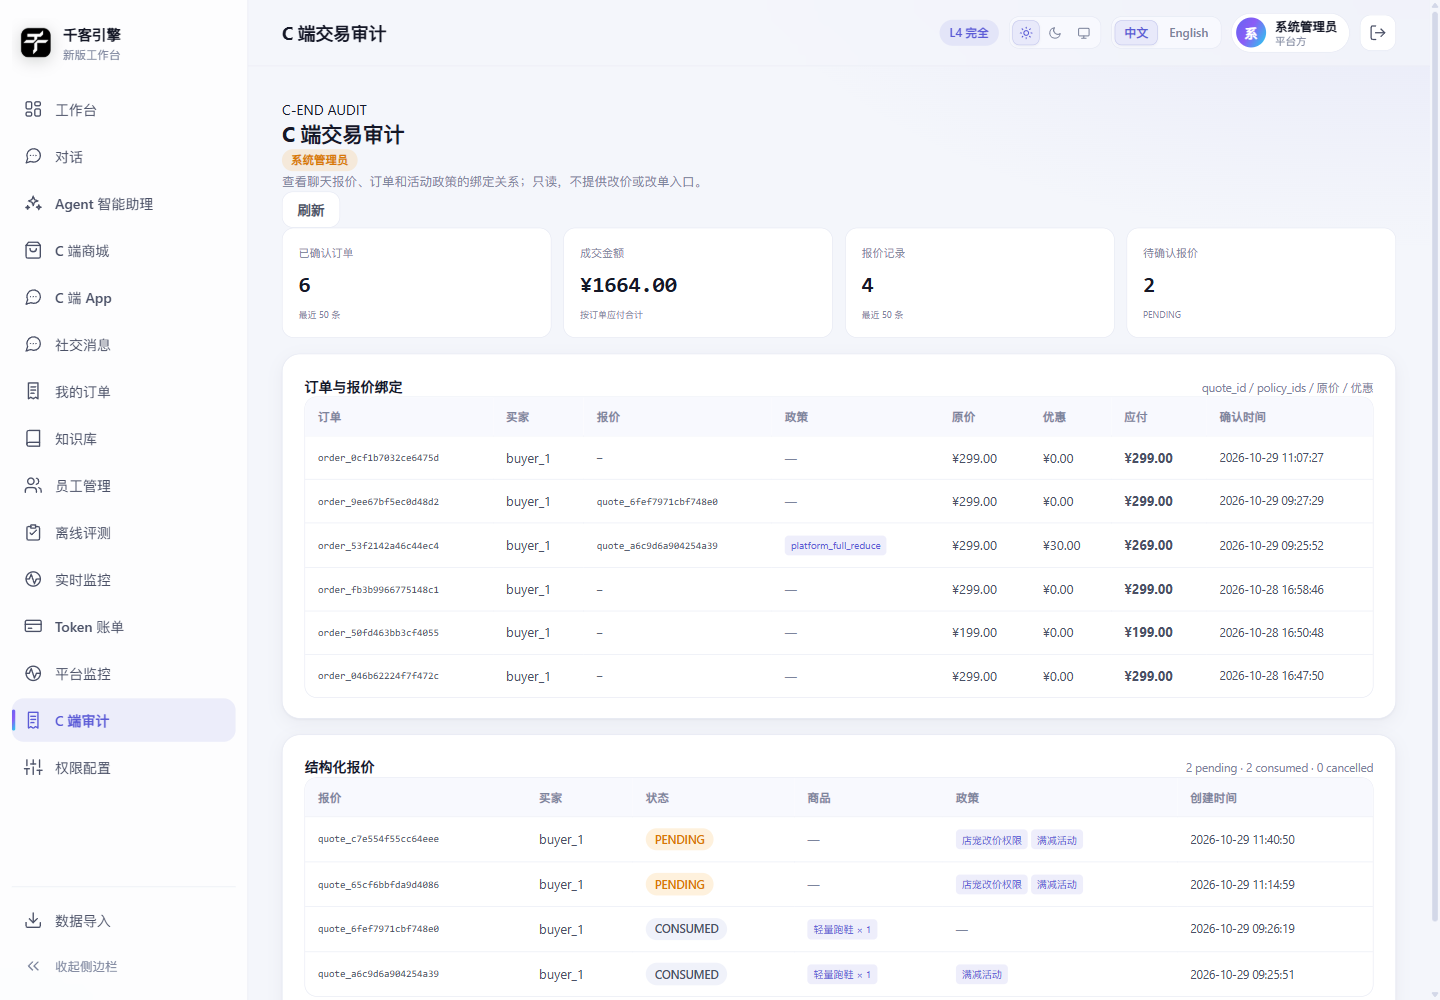
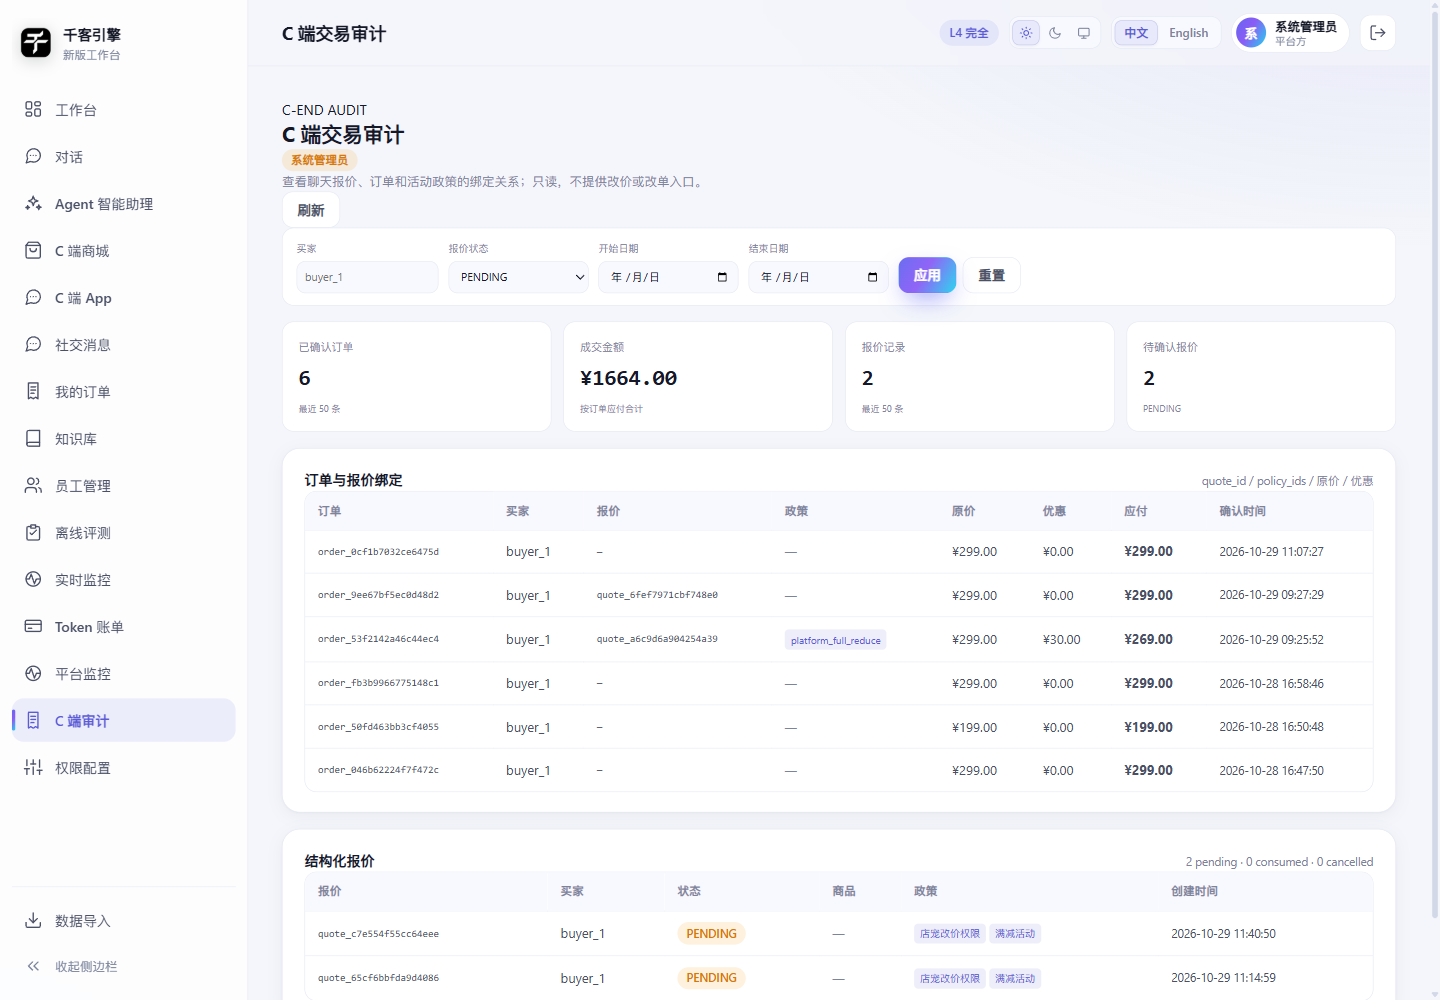
feat(admin): filter C-end audit by buyer status and date
审计接口与页面支持 buyer_id、报价状态、自然日范围筛选；统计和列表随筛选联动。

diff --git a/web/src/views/CAdminAudit.vue b/web/src/views/CAdminAudit.vue
@@ -8,6 +8,10 @@ const quotes = ref([]);
 const summary = ref({});
 const loading = ref(true);
 const error = ref("");
+const buyerId = ref("");
+const quoteStatus = ref("");
+const dateFrom = ref("");
+const dateTo = ref("");
 
 function money(value) {
   return `¥${Number(value || 0).toFixed(2)}`;
@@ -23,13 +27,18 @@ function productLabel(product) {
 }
 
 const pendingQuotes = computed(() => summary.value.pending_quotes || 0);
-const quoteStatus = computed(() => summary.value.quote_status || {});
+const quoteStatusCounts = computed(() => summary.value.quote_status || {});
 
 async function load() {
   loading.value = true;
   error.value = "";
   try {
-    const data = await getJson("/api/c/admin/audit?limit=50");
+    const params = new URLSearchParams({ limit: "50" });
+    if (buyerId.value.trim()) params.set("buyer_id", buyerId.value.trim());
+    if (quoteStatus.value) params.set("status", quoteStatus.value);
+    if (dateFrom.value) params.set("date_from", dateFrom.value);
+    if (dateTo.value) params.set("date_to", dateTo.value);
+    const data = await getJson(`/api/c/admin/audit?${params.toString()}`);
     orders.value = data?.orders || [];
     quotes.value = data?.quotes || [];
     summary.value = data?.summary || {};
@@ -39,6 +48,14 @@ async function load() {
   } finally {
     loading.value = false;
   }
+}
+
+function resetFilters() {
+  buyerId.value = "";
+  quoteStatus.value = "";
+  dateFrom.value = "";
+  dateTo.value = "";
+  load();
 }
 
 onMounted(load);
@@ -59,6 +76,34 @@ onMounted(load);
       </div>
       <button type="button" class="btn btn-ghost" :disabled="loading" @click="load">刷新</button>
     </div>
+
+    <section class="audit-filters" aria-label="审计筛选">
+      <label>
+        <span>买家</span>
+        <input v-model="buyerId" type="text" placeholder="buyer_1" />
+      </label>
+      <label>
+        <span>报价状态</span>
+        <select v-model="quoteStatus">
+          <option value="">全部</option>
+          <option value="PENDING">PENDING</option>
+          <option value="CONSUMED">CONSUMED</option>
+          <option value="CANCELLED">CANCELLED</option>
+        </select>
+      </label>
+      <label>
+        <span>开始日期</span>
+        <input v-model="dateFrom" type="date" />
+      </label>
+      <label>
+        <span>结束日期</span>
+        <input v-model="dateTo" type="date" />
+      </label>
+      <div class="audit-filter-actions">
+        <button type="button" class="btn btn-primary" :disabled="loading" @click="load">应用</button>
+        <button type="button" class="btn btn-ghost" :disabled="loading" @click="resetFilters">重置</button>
+      </div>
+    </section>
 
     <div v-if="loading" class="card"><div class="skeleton" style="height:100px"></div></div>
     <div v-else-if="error" class="card">
@@ -137,7 +182,7 @@ onMounted(load);
         <div class="admin-section-head">
           <strong>结构化报价</strong>
           <span class="field-hint">
-            {{ quoteStatus.PENDING || 0 }} pending · {{ quoteStatus.CONSUMED || 0 }} consumed · {{ quoteStatus.CANCELLED || 0 }} cancelled
+            {{ quoteStatusCounts.PENDING || 0 }} pending · {{ quoteStatusCounts.CONSUMED || 0 }} consumed · {{ quoteStatusCounts.CANCELLED || 0 }} cancelled
           </span>
         </div>
         <div class="table-wrap">
@@ -188,6 +233,44 @@ onMounted(load);
   grid-template-columns: repeat(4, minmax(0, 1fr));
   gap: 12px;
   margin-bottom: 16px;
+}
+
+.audit-filters {
+  display: flex;
+  align-items: flex-end;
+  flex-wrap: wrap;
+  gap: 10px;
+  margin-bottom: 16px;
+  padding: 12px 14px;
+  border: 1px solid var(--border);
+  border-radius: var(--radius-sm);
+  background: var(--surface);
+}
+
+.audit-filters label {
+  display: flex;
+  min-width: 140px;
+  flex-direction: column;
+  gap: 5px;
+  color: var(--muted);
+  font-size: 10px;
+}
+
+.audit-filters input,
+.audit-filters select {
+  height: 32px;
+  padding: 0 8px;
+  border: 1px solid var(--border);
+  border-radius: var(--radius-xs);
+  background: var(--surface-2);
+  color: var(--text);
+  font: inherit;
+  font-size: 11px;
+}
+
+.audit-filter-actions {
+  display: flex;
+  gap: 6px;
 }
 
 .audit-stat {

diff --git a/src/rag_demo/c_end/store.py b/src/rag_demo/c_end/store.py
@@ -606,29 +606,83 @@ def cancel_quote(quote_id: str, buyer_id: str) -> dict[str, Any]:
         conn.close()
 
 
-def list_all_orders(limit: int = 50) -> list[dict[str, Any]]:
-    """管理端审计：所有买家的已确认订单。"""
+def _audit_time(value: str | None, *, end: bool = False) -> str | None:
+    text = str(value or "").strip()
+    if not text:
+        return None
+    if len(text) == 10:
+        return f"{text}T{'23:59:59' if end else '00:00:00'}"
+    return text
+
+
+def list_all_orders(
+    limit: int = 50,
+    *,
+    buyer_id: str | None = None,
+    date_from: str | None = None,
+    date_to: str | None = None,
+) -> list[dict[str, Any]]:
+    """管理端审计：所有买家的已确认订单，支持买家/时间过滤。"""
     init()
+    where = ["status = 'CONFIRMED'", "order_id LIKE 'order_%'"]
+    params: list[Any] = []
+    if buyer_id:
+        where.append("buyer_id = ?")
+        params.append(str(buyer_id).strip())
+    start = _audit_time(date_from)
+    end = _audit_time(date_to, end=True)
+    if start:
+        where.append("confirmed_at >= ?")
+        params.append(start)
+    if end:
+        where.append("confirmed_at <= ?")
+        params.append(end)
+    params.append(max(1, min(int(limit), 200)))
     conn = _connect()
     try:
         rows = conn.execute(
-            "SELECT * FROM c_order WHERE status = 'CONFIRMED' "
-            "AND order_id LIKE 'order_%' ORDER BY confirmed_at DESC LIMIT ?",
-            (max(1, min(int(limit), 200)),),
+            f"SELECT * FROM c_order WHERE {' AND '.join(where)} "
+            "ORDER BY confirmed_at DESC LIMIT ?",
+            params,
         ).fetchall()
         return [_order_payload(conn, row) for row in rows]
     finally:
         conn.close()
 
 
-def list_all_quotes(limit: int = 50) -> list[dict[str, Any]]:
-    """管理端审计：所有买家报价及其状态。"""
+def list_all_quotes(
+    limit: int = 50,
+    *,
+    buyer_id: str | None = None,
+    status: str | None = None,
+    date_from: str | None = None,
+    date_to: str | None = None,
+) -> list[dict[str, Any]]:
+    """管理端审计：所有买家报价及其状态，支持买家/状态/时间过滤。"""
     init()
+    where = ["1 = 1"]
+    params: list[Any] = []
+    if buyer_id:
+        where.append("buyer_id = ?")
+        params.append(str(buyer_id).strip())
+    if status:
+        where.append("status = ?")
+        params.append(str(status).strip().upper())
+    start = _audit_time(date_from)
+    end = _audit_time(date_to, end=True)
+    if start:
+        where.append("created_at >= ?")
+        params.append(start)
+    if end:
+        where.append("created_at <= ?")
+        params.append(end)
+    params.append(max(1, min(int(limit), 200)))
     conn = _connect()
     try:
         rows = conn.execute(
-            "SELECT * FROM c_quote ORDER BY created_at DESC LIMIT ?",
-            (max(1, min(int(limit), 200)),),
+            f"SELECT * FROM c_quote WHERE {' AND '.join(where)} "
+            "ORDER BY created_at DESC LIMIT ?",
+            params,
         ).fetchall()
         result = []
         for row in rows:

diff --git a/src/rag_demo/api/c_end.py b/src/rag_demo/api/c_end.py
@@ -161,14 +161,33 @@ def save_app_message(req: AppMessageIn) -> dict:
 
 
 @router.get("/admin/audit")
-def c_end_admin_audit(limit: int = 50) -> dict:
+def c_end_admin_audit(
+    limit: int = 50,
+    buyer_id: str | None = None,
+    status: str | None = None,
+    date_from: str | None = None,
+    date_to: str | None = None,
+) -> dict:
     _require_admin()
-    orders = store.list_all_orders(limit=limit)
-    quotes = store.list_all_quotes(limit=limit)
+    if status and status.upper() not in {"PENDING", "CONSUMED", "CANCELLED"}:
+        raise HTTPException(status_code=400, detail="报价状态不合法")
+    orders = store.list_all_orders(
+        limit=limit,
+        buyer_id=buyer_id,
+        date_from=date_from,
+        date_to=date_to,
+    )
+    quotes = store.list_all_quotes(
+        limit=limit,
+        buyer_id=buyer_id,
+        status=status,
+        date_from=date_from,
+        date_to=date_to,
+    )
     status_counts: dict[str, int] = {}
     for quote in quotes:
-        status = str(quote.get("status") or "UNKNOWN")
-        status_counts[status] = status_counts.get(status, 0) + 1
+        quote_status = str(quote.get("status") or "UNKNOWN")
+        status_counts[quote_status] = status_counts.get(quote_status, 0) + 1
     return {
         "orders": orders,
         "quotes": quotes,

diff --git a/tests/test_c_end_store.py b/tests/test_c_end_store.py
@@ -264,10 +264,27 @@ def test_admin_audit_lists_cross_buyer_orders_and_quotes(c_store):
         request_id="req_admin_audit_1",
     )
     c_store.save_app_message("buyer_2", "companion", "user", "另一买家的消息")
+    c_store.create_quote(
+        "buyer_2",
+        "store_demo",
+        {
+            "quote_id": "quote_admin_2",
+            "product_refs": [{"product_id": "P002", "quantity": 1}],
+            "policy_refs": [],
+        },
+    )
 
     orders = c_store.list_all_orders()
     quotes = c_store.list_all_quotes()
     assert orders[0]["quote_id"] == "quote_admin_1"
     assert orders[0]["policy_ids"] == ["platform_full_reduce"]
-    assert any(item["buyer_id"] == "buyer_2" for item in quotes) is False
     assert all(order["order_id"].startswith("order_") for order in orders)
+
+    buyer_2_orders = c_store.list_all_orders(buyer_id="buyer_2")
+    buyer_2_quotes = c_store.list_all_quotes(buyer_id="buyer_2")
+    assert buyer_2_orders == []
+    assert [quote["quote_id"] for quote in buyer_2_quotes] == ["quote_admin_2"]
+
+    pending = c_store.list_all_quotes(status="PENDING")
+    assert [quote["quote_id"] for quote in pending] == ["quote_admin_2"]
+

diff --git a/AGENTS.md b/AGENTS.md
@@ -1,6 +1,6 @@
 # Qianke Agent 项目级 AI Coding Agent 工作协议
 
-> **Version:** 1.5.1 · **Status:** Active · **Product:** Qianke Agent
+> **Version:** 1.5.2 · **Status:** Active · **Product:** Qianke Agent
 > 本文件约束 AI Coding Agent 的工作方式；产品需求、接口和模型以对应文档为准。
 
 ## 0. 十条硬规则
@@ -432,7 +432,7 @@ IM 社交载体
 
 | 项 | 当前值 |
 |---|---|
-| AGENTS.md | v1.5.1 |
+| AGENTS.md | v1.5.2 |
 | Product | Qianke Agent |
 | Positioning | Enterprise Analysis + C-end Commerce + IM Social Commerce Agent Platform |
 | Primary | B 端经营分析 / C 端导购与模拟订单 |
@@ -466,3 +466,4 @@ IM 社交载体
 | 1.4.3 | 2026-10-29 | C 端 App 加入 PWA manifest/service worker/icons 与 iOS 安全区适配；静态资源缓存，不缓存 API/鉴权/HTML |
 | 1.5.0 | 2026-10-29 | 引入 C 端「小鱼」人设守卫：命名/昵称校验、输出禁词与情绪清洗；会话消息分页与清空；C 端界面文案同步 |
 | 1.5.1 | 2026-10-29 | 新增管理端 C 端交易审计：跨买家订单/报价、quote_id/policy_ids/金额链路；仅系统管理员只读访问 |
+| 1.5.2 | 2026-10-29 | C 端审计支持买家/报价状态/自然日范围筛选；前后端参数与列表联动 |

diff --git a/docs/c-end-mock.md b/docs/c-end-mock.md
@@ -273,6 +273,16 @@ API：
 
 ```text
 GET /api/c/admin/audit?limit=50
+GET /api/c/admin/audit?limit=50&buyer_id=buyer_1&status=PENDING
+GET /api/c/admin/audit?limit=50&date_from=2026-10-29&date_to=2026-10-29
+```
+
+筛选：
+
+```text
+buyer_id
+status = PENDING / CONSUMED / CANCELLED
+date_from / date_to（按自然日）
 ```
 
 权限：
